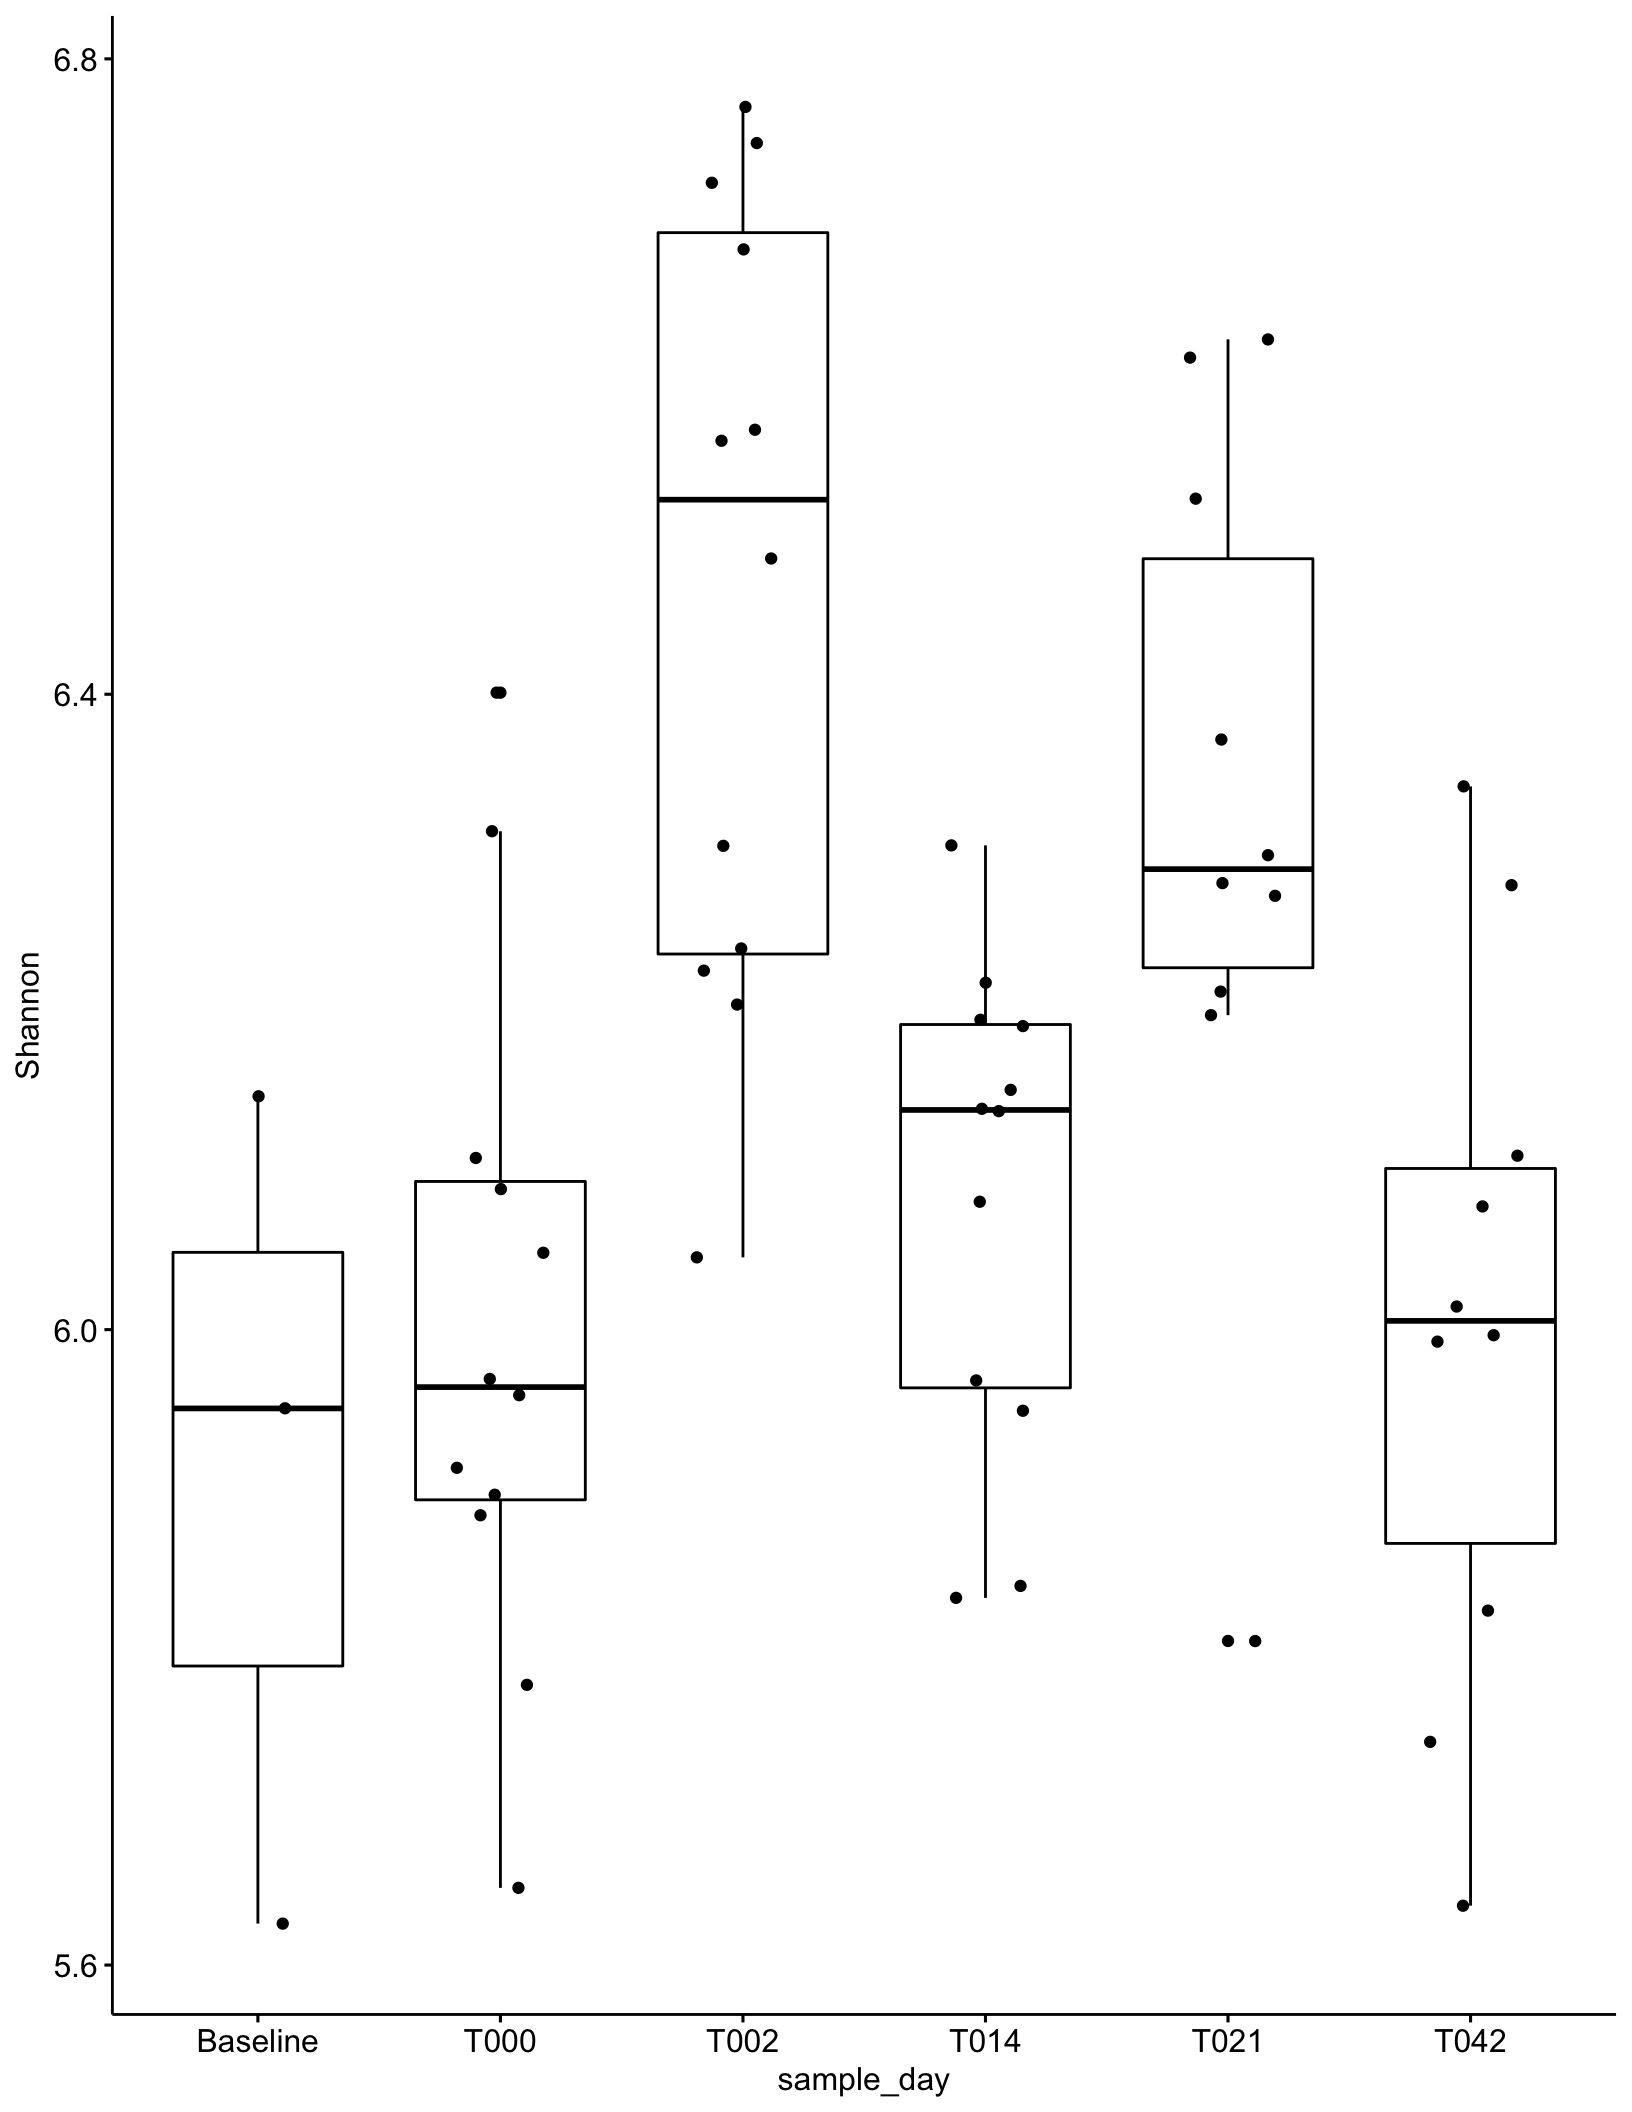
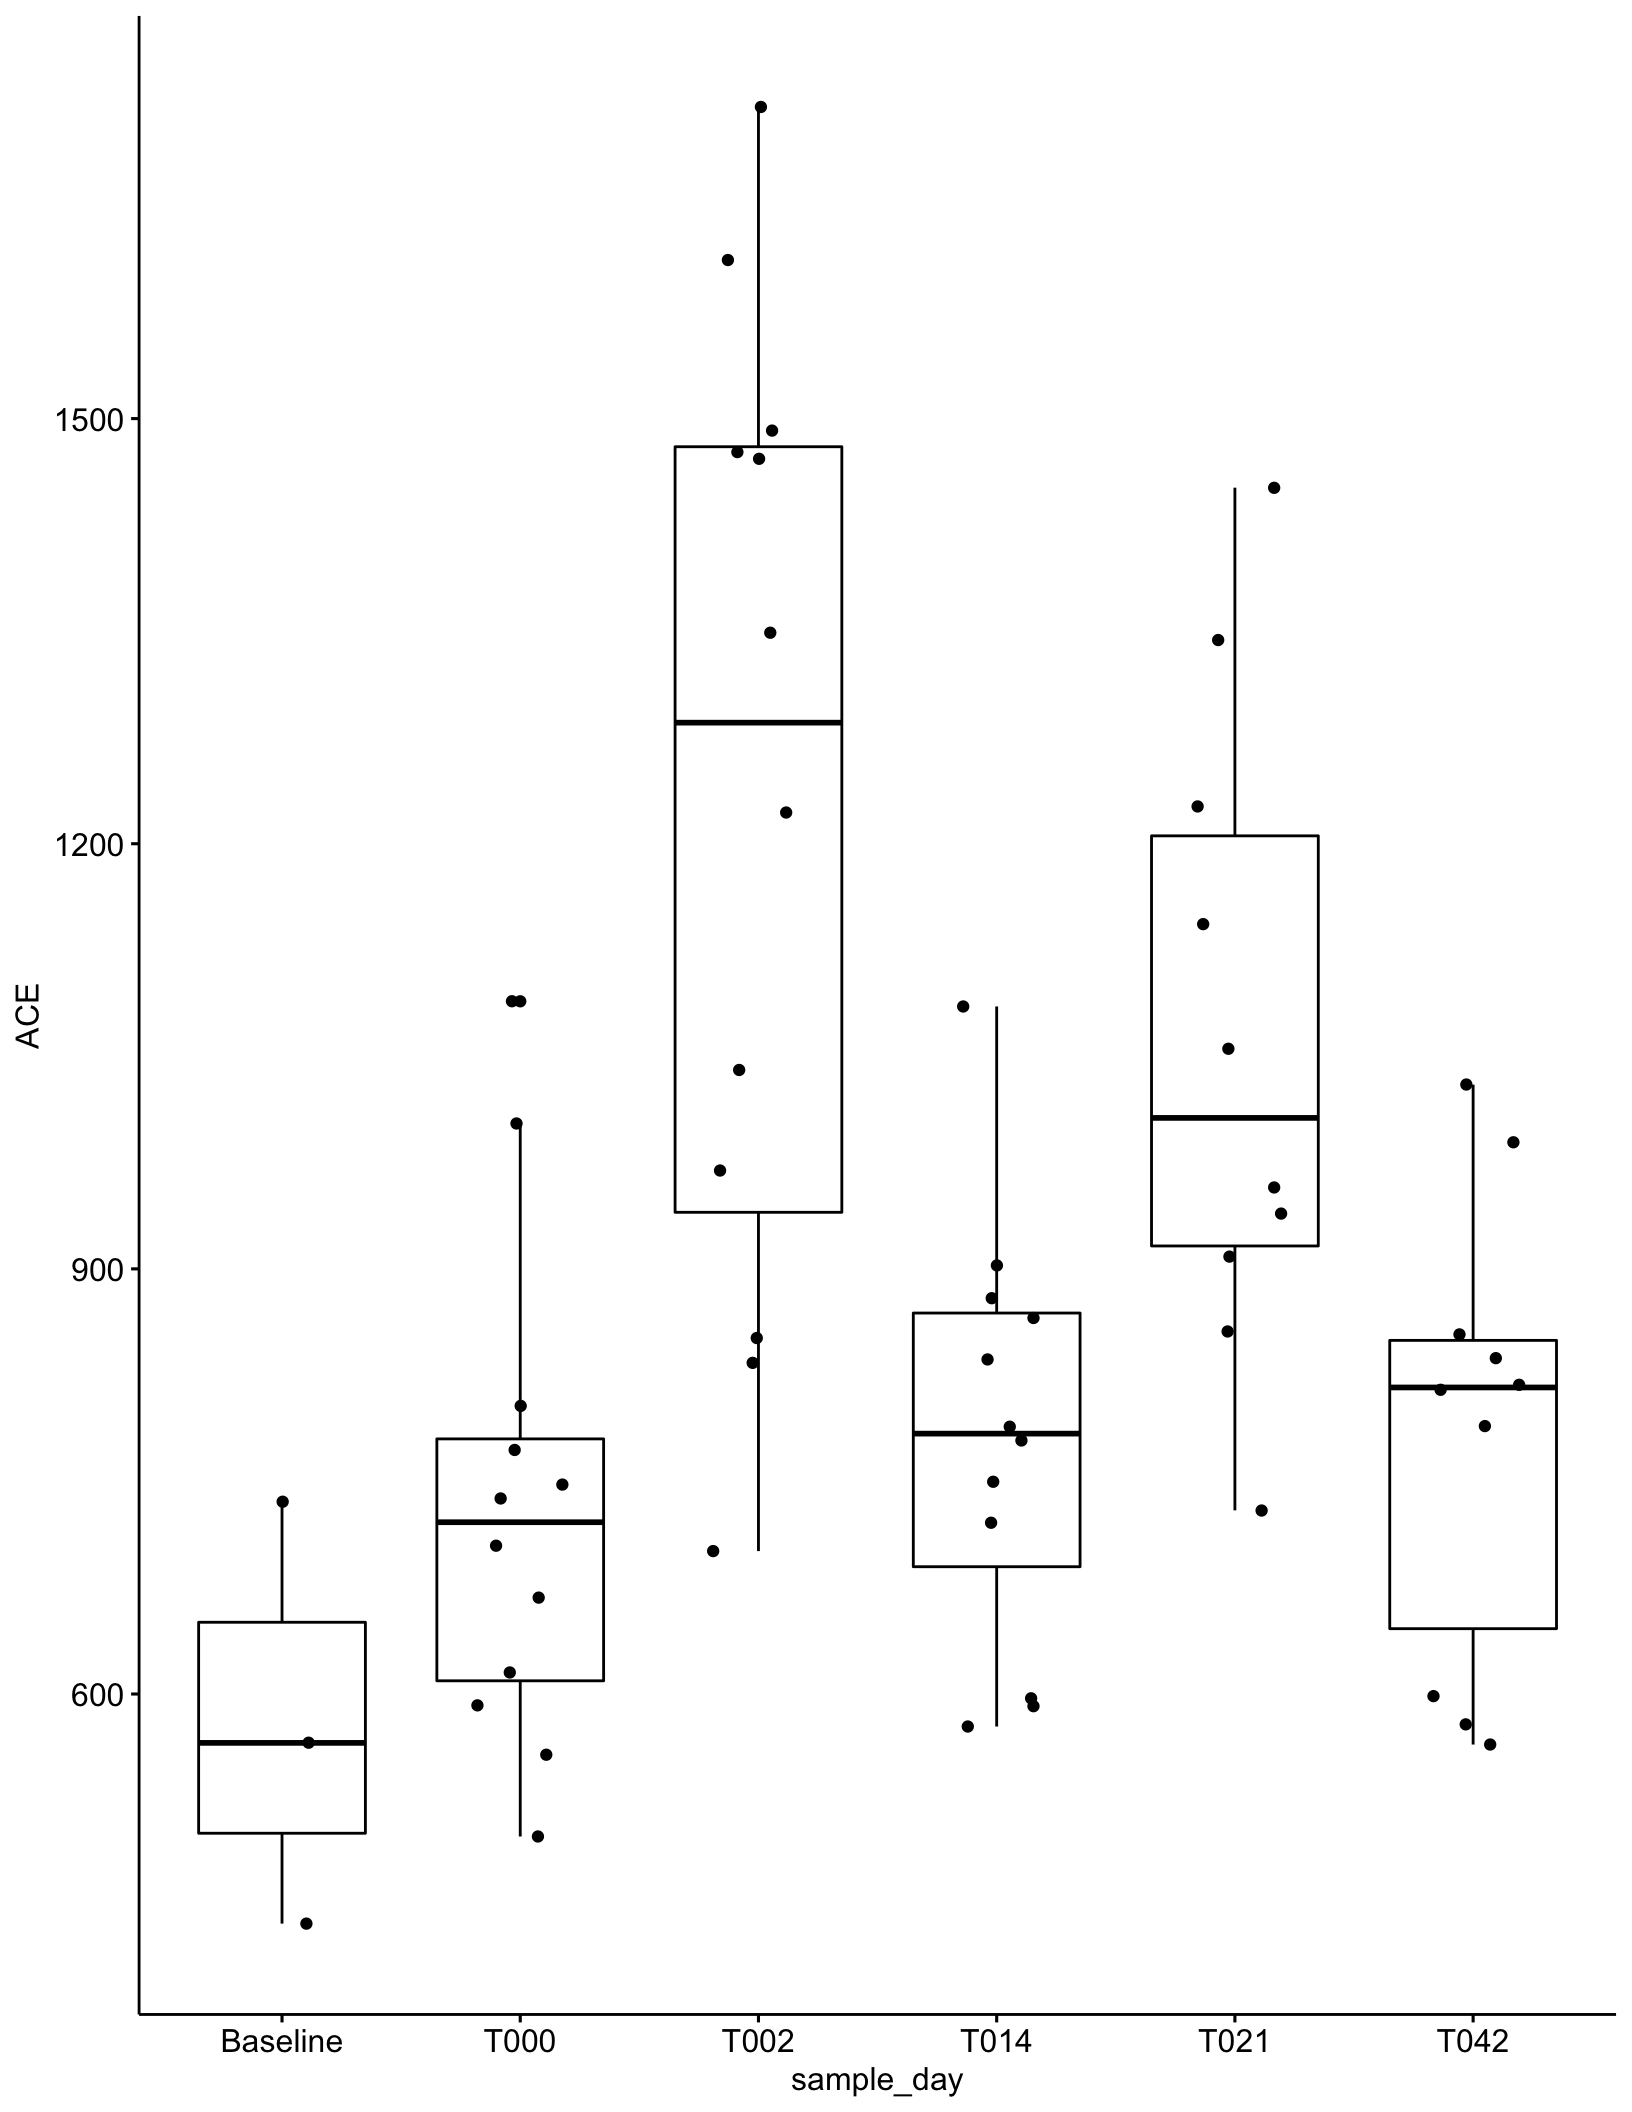
add diversity details

diff --git a/docs/Diversity_Stats.html b/docs/Diversity_Stats.html
@@ -381,38 +381,14 @@ div.tocify {
 </div>
 
 
-<pre class="r"><code>data(&quot;soilrep&quot;)
-soilrep</code></pre>
-<pre><code>## phyloseq-class experiment-level object
-## otu_table()   OTU Table:         [ 16825 taxa and 56 samples ]
-## sample_data() Sample Data:       [ 56 samples by 4 sample variables ]</code></pre>
-<pre class="r"><code>erich &lt;- estimate_richness(soilrep, measures = c(&quot;Observed&quot;, &quot;Shannon&quot;, &quot;Simpson&quot;, &quot;Fisher&quot;))
-ttest &lt;- t(sapply(erich, function(x) unlist(t.test(x~sample_data(soilrep)$warmed)[c(&quot;estimate&quot;,&quot;p.value&quot;,&quot;statistic&quot;,&quot;conf.int&quot;)])))
-ttest</code></pre>
-<pre><code>##          estimate.mean in group no estimate.mean in group yes   p.value
-## Observed              1133.1428571                1109.392857 0.8222405
-## Shannon                  6.7239381                   6.725982 0.9776912
-## Simpson                  0.9980636                   0.998125 0.6300884
-## Fisher                1400.0104151                1422.904606 0.7783465
-##          statistic.t     conf.int1    conf.int2
-## Observed  0.22579676 -1.872919e+02 2.347919e+02
-## Shannon  -0.02809354 -1.479344e-01 1.438458e-01
-## Simpson  -0.48438244 -3.156804e-04 1.928421e-04
-## Fisher   -0.28289961 -1.851811e+02 1.393927e+02</code></pre>
-<pre class="r"><code>StripsPhy &lt;- readRDS(&quot;data/merged_STRIPs.RDS&quot;)
-
-StripsPhy &lt;- StripsPhy %&gt;%
-  filter_taxa(function(x) sum(x) &gt;= 1, T)
-
-StripsPhy</code></pre>
+<p>Alpha diversity is the description of the number of species and sometimes the counts within species at different sites.</p>
+<p>Shannon diversity: ACE diversity: Chao1:</p>
 <pre><code>## phyloseq-class experiment-level object
 ## otu_table()   OTU Table:         [ 48381 taxa and 586 samples ]
 ## sample_data() Sample Data:       [ 586 samples by 12 sample variables ]
 ## tax_table()   Taxonomy Table:    [ 48381 taxa by 6 taxonomic ranks ]
 ## refseq()      DNAStringSet:      [ 48381 reference sequences ]</code></pre>
-<pre class="r"><code>min(taxa_sums(StripsPhy))</code></pre>
 <pre><code>## [1] 1</code></pre>
-<pre class="r"><code>head(StripsPhy@sam_data$matrix)</code></pre>
 <pre><code>## [1] &quot;soil&quot; &quot;soil&quot; &quot;soil&quot; &quot;soil&quot; &quot;soil&quot; &quot;soil&quot;</code></pre>
 <div id="chao1-and-ace" class="section level1">
 <h1>Chao1 and ACE</h1>
@@ -457,8 +433,6 @@ ttest</code></pre>
 ## se.chao1 0.94386121  -0.0705492 -5.264651e-04 0.000490199
 ## ACE      0.05784510  -1.9150050 -1.958624e+02 3.253609303
 ## se.ACE   0.12729459  -1.5346724 -1.265635e+00 0.159853277</code></pre>
-<p><code>r  # compare_alpha &lt;- function(var1, physeq) {  #   # Calcuate alpha diversity  #   sample_data &lt;- sample_data(physeq) %&gt;%  #   as_tibble()  #   sample_data$alpha &lt;- estimate_richness(physeq, measures = c(&quot;ACE&quot;)) %&gt;%   #     select(ACE) %&gt;%  #     unlist()  #   # Do ANOVA  #   sample_data$grouping &lt;- sample_data[[grouping_var]] # needed for how `aov` works  #   anova_result &lt;- aov(alpha ~ grouping, sample_data)  #   # Do Tukey's HSD test  #   tukey_result &lt;- HSD.test(anova_result, &quot;grouping&quot;, group = TRUE)  #   # Plot result  #   group_data &lt;- tukey_result$groups[order(rownames(tukey_result$groups)),]  #   my_plot &lt;- ggplot(sample_data, aes(x = grouping, y = alpha)) +  #     geom_text(data = data.frame(),  #               aes(x = rownames(group_data),  #                   y = max(sample_data$alpha) + 1,  #                   label = group_data$groups),  #               col = 'black',  #               size = 10) +  #     geom_boxplot() +  #     ggtitle(&quot;Alpha diversity&quot;) +  #     xlab(grouping) +  #     ylab(&quot;Alpha diversity index&quot;)  #   # Return plot  #   return(my_plot)  # }  #</code></p>
-<p><code>r  # compare_alpha(&quot;sample_day&quot;, Wd1)</code></p>
 <pre class="r"><code>physeq &lt;- Wd1
 
 c1 &lt;- c(&quot;soil_type&quot;)
@@ -503,10 +477,11 @@ my_plot &lt;- ggplot(sample_data, aes(x = sample_day, y = alpha)) +
   ggtitle(&quot;Alpha diversity&quot;) +
   ylab(&quot;Alpha diversity index&quot;)
 my_plot</code></pre>
-<p><img src="Diversity_Stats_files/figure-html/unnamed-chunk-2-1.png" width="816" /></p>
+<p><img src="Diversity_Stats_files/figure-html/unnamed-chunk-1-1.png" width="816" /></p>
 </div>
-<div id="ggpubr-makes-stats-a-lot-easier" class="section level1">
-<h1>ggpubr makes stats a lot easier</h1>
+<div id="ggpubr" class="section level1">
+<h1>ggpubr</h1>
+<p>ggpubr makes stats a lot easier</p>
 <pre class="r"><code>library(ggpubr)
 sample_data &lt;- sample_data(Wd1) %&gt;%
   lapply(., factor) %&gt;%
@@ -572,7 +547,7 @@ plot</code></pre>
 ## present in any sample after random subsampling</code></pre>
 <pre><code>## ...</code></pre>
 <p>Rarefied Diversity</p>
-<p>Rarefaction is important for making sound judgements when comparing two sites (samples) in this case, our sequencing wasn’t even between all samples, so we are randomly re-sampling each at 10k reads. This removes a few samples that had less than 10k reads, we cannot include them in the comparison becuase the were undersampled. Yet, our conclusions remain the same (T002 differences).</p>
+<p>Rarefaction is important for making sound judgements when comparing two sites (samples) in this case, our sequencing wasn’t even between all samples, so we are randomly re-sampling each at 10k reads. This removes a few samples that had less than 10k reads, we cannot include them in the comparison becuase the were undersampled. Yet, our conclusions remain the same (T002 differences), with the exception of an additional difference detected on day 21 for ACE and Chao1.</p>
 <pre class="r"><code>library(ggpubr)
 sample_data &lt;- sample_data(rWd1) %&gt;%
   lapply(., factor) %&gt;%
@@ -626,7 +601,7 @@ plot</code></pre>
   filter(soil_type == &quot;strip&quot;) %&gt;%
   ggboxplot(x = &quot;sample_day&quot;, y = &quot;Shannon&quot;, add = &quot;jitter&quot;)
 p</code></pre>
-<p><img src="Diversity_Stats_files/figure-html/unnamed-chunk-4-1.png" width="816" /></p>
+<p><img src="Diversity_Stats_files/figure-html/unnamed-chunk-3-1.png" width="816" /></p>
 <pre class="r"><code>my_comparisons &lt;- list( c(&quot;T002&quot;, &quot;T014&quot;), c(&quot;T002&quot;, &quot;T000&quot;), c(&quot;Baseline&quot;, &quot;T000&quot;), c(&quot;T014&quot;, &quot;T021&quot;), c(&quot;T021&quot;, &quot;T042&quot;))
 
 plot &lt;- p + stat_compare_means(comparisons = my_comparisons, label = &quot;p.signif&quot;) +
@@ -634,7 +609,7 @@ plot &lt;- p + stat_compare_means(comparisons = my_comparisons, label = &quot;p.
   ylab(&quot;Shannon Diversity&quot;) +
   xlab(&quot;Sampling Day&quot;) 
 plot</code></pre>
-<p><img src="Diversity_Stats_files/figure-html/unnamed-chunk-4-2.png" width="816" /></p>
+<p><img src="Diversity_Stats_files/figure-html/unnamed-chunk-3-2.png" width="816" /></p>
 <pre class="r"><code>levels(as.factor(sample_data$sample_day))</code></pre>
 <pre><code>## [1] &quot;Baseline&quot; &quot;T000&quot;     &quot;T002&quot;     &quot;T014&quot;     &quot;T021&quot;     &quot;T042&quot;</code></pre>
 <pre class="r"><code>levels(as.factor(p$sample_day))</code></pre>
@@ -643,7 +618,7 @@ plot</code></pre>
   filter(soil_type == &quot;strip&quot;) %&gt;%
   ggboxplot(x = &quot;sample_day&quot;, y = &quot;ACE&quot;, add = &quot;jitter&quot;)
 p</code></pre>
-<p><img src="Diversity_Stats_files/figure-html/unnamed-chunk-5-1.png" width="816" /></p>
+<p><img src="Diversity_Stats_files/figure-html/unnamed-chunk-4-1.png" width="816" /></p>
 <pre class="r"><code>my_comparisons &lt;- list( c(&quot;T002&quot;, &quot;T014&quot;), c(&quot;T002&quot;, &quot;T000&quot;), c(&quot;Baseline&quot;, &quot;T000&quot;), c(&quot;T014&quot;, &quot;T021&quot;), c(&quot;T021&quot;, &quot;T042&quot;))
 
 plot &lt;- p + stat_compare_means(comparisons = my_comparisons, label = &quot;p.signif&quot;) +
@@ -651,14 +626,14 @@ plot &lt;- p + stat_compare_means(comparisons = my_comparisons, label = &quot;p.
   ylab(&quot;ACE Diversity&quot;) +
   xlab(&quot;Sampling Day&quot;) 
 plot</code></pre>
-<p><img src="Diversity_Stats_files/figure-html/unnamed-chunk-5-2.png" width="816" /></p>
+<p><img src="Diversity_Stats_files/figure-html/unnamed-chunk-4-2.png" width="816" /></p>
 <p>Trying a violin plot</p>
 <pre class="r"><code>p &lt;- sample_data %&gt;%
   filter(soil_type == &quot;crop&quot;) %&gt;%
   ggviolin(x = &quot;sample_day&quot;, y = &quot;ACE&quot;, fill = &quot;sample_day&quot;,
          add = &quot;boxplot&quot;, add.params = list(fill = &quot;gray&quot;))
 p</code></pre>
-<p><img src="Diversity_Stats_files/figure-html/unnamed-chunk-6-1.png" width="816" /></p>
+<p><img src="Diversity_Stats_files/figure-html/unnamed-chunk-5-1.png" width="816" /></p>
 <pre class="r"><code>my_comparisons &lt;- list( c(&quot;T002&quot;, &quot;T014&quot;), c(&quot;T002&quot;, &quot;T000&quot;), c(&quot;Baseline&quot;, &quot;T000&quot;), c(&quot;T014&quot;, &quot;T021&quot;), c(&quot;T021&quot;, &quot;T042&quot;))
 
 plot &lt;- p + stat_compare_means(comparisons = my_comparisons, label = &quot;p.signif&quot;) +
@@ -668,7 +643,7 @@ plot &lt;- p + stat_compare_means(comparisons = my_comparisons, label = &quot;p.
   scale_fill_viridis_d() + 
   theme(legend.position = &quot;none&quot;) 
 plot</code></pre>
-<p><img src="Diversity_Stats_files/figure-html/unnamed-chunk-6-2.png" width="816" /></p>
+<p><img src="Diversity_Stats_files/figure-html/unnamed-chunk-5-2.png" width="816" /></p>
 </div>
 
 
